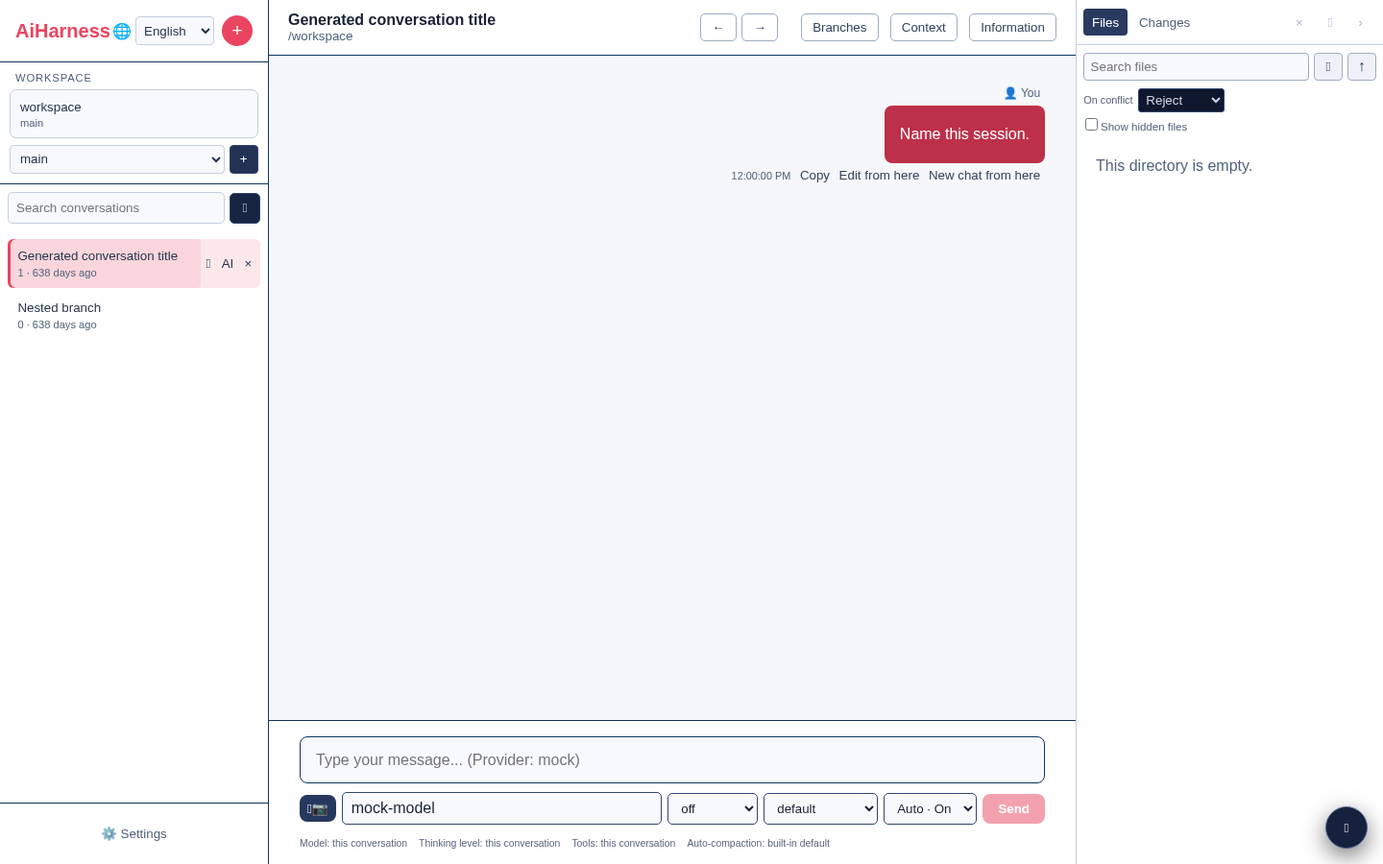
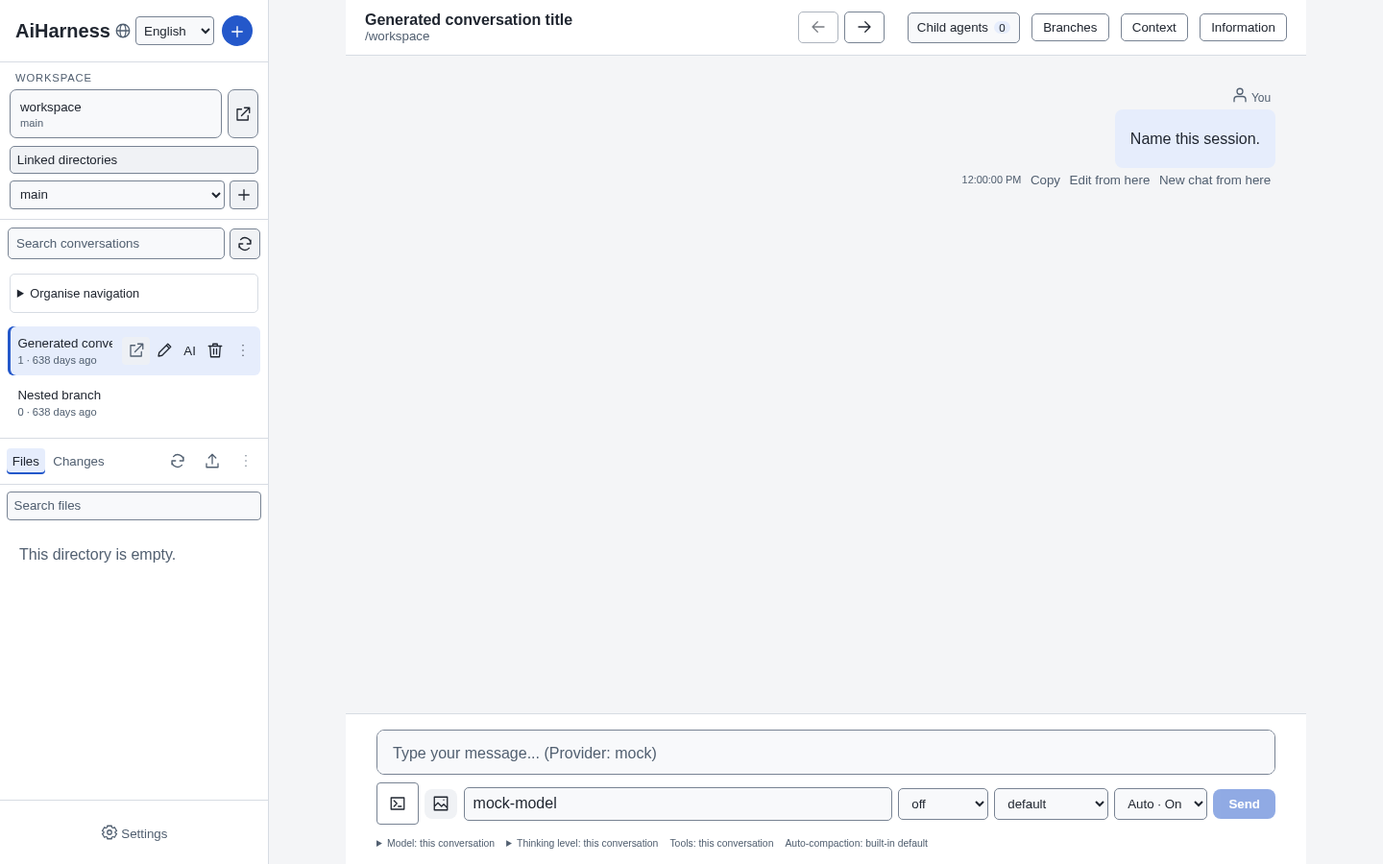
docs(users): refresh Web guides and interface screenshots

diff --git a/docs/users/en/user-guide.md b/docs/users/en/user-guide.md
@@ -3,7 +3,7 @@
 AiHarness provides two interfaces on top of the same providers and session storage:
 
 - **CLI**: interactive agent in a terminal, with sessions, branches, tools, skills, and extensions;
-- **Web**: three-panel React workspace connected to a detached server agent with sequenced SSE recovery.
+- **Web**: responsive React workspace with navigation and explorer on the left, chat in the center and a file reader on the right, connected to a detached server agent with sequenced SSE recovery.
 
 This guide covers installation from sources, provider configuration, and daily use of both interfaces.
 
@@ -661,6 +661,8 @@ npm run dev:web
 
 In both development modes, the API listens internally on `127.0.0.1:3099` and Vite proxies `/api` and WebSockets from port 3080.
 
+Screenshots in this guide show the current interface with synthetic data, mostly in English and the light theme. Labels follow the language selected in the application; see the [screenshot inventory](../../screenshots/README.md) for provenance and refresh instructions.
+
 To explore the interface without a key:
 
 ![Workspace trust dialog, light theme](../../screenshots/01-workspace/trust-dialog-light.png)
@@ -668,7 +670,7 @@ To explore the interface without a key:
 1. choose or confirm the workspace in the sidebar;
 2. explicitly approve the project after verifying its path;
 3. click **+** to open a local draft;
-4. keep **Mock** provider in **Settings**;
+4. keep **Mock** provider in **Settings → Models → AI Provider**;
 5. send `Hello`: the session is only created on the server at this point.
 
 ### Default Workspace and Recovery
@@ -679,7 +681,21 @@ If the saved choice and default are unavailable, the sidebar explains the failur
 
 ### Configuring Web UI
 
-The **Settings** page allows:
+Open **Settings** at the bottom of the sidebar or with `Ctrl+,` (`⌘,` on macOS). Settings opens as a dialog over chat with seven categories: **General**, **Models**, **Skills**, **Tools**, **Plugins**, **Child agents** and **MCP**. On smaller screens, use the category dropdown; **Back…** buttons return to the section or resource list.
+
+| Path | Purpose |
+|---|---|
+| **General → Appearance** | Theme, content width, font and send key |
+| **General → Behavior** | Global/project defaults and keyboard shortcuts |
+| **General → Notifications / Access / About** | Alerts, Web session and versions |
+| **Models → AI Provider** | Active provider and built-in provider keys |
+| **Models → Provider connections and custom providers** | Status, sign-in, testing and compatible providers |
+| **Models → Model** | Model selection and catalogue |
+| **Models → Custom models** | Custom model declarations |
+
+Select a resource in its list to inspect its detail: cards are no longer all shown simultaneously. **Close** or `Escape` returns to chat; unsaved changes may require confirmation. Positions are remembered per folder, not unsubmitted fields; see [Settings navigation](./settings-navigation.md).
+
+Settings allows:
 
 - selecting the active provider, registering a key with the server and tracking connection/usage;
 - launching a configured OAuth Device Flow, then reconnecting or disconnecting the provider without exposing its token;
@@ -698,7 +714,7 @@ The **Settings** page allows:
 - applying a Bearer token to the current tab or logging out of the Web session;
 - viewing Web/agent versions, explicitly checking the latest release and opening its notes without auto-installation.
 
-Expand **Manage model catalogue** in the **Model** section to search for a model or provider, view its reasoning/image/tool capabilities, then activate an entry or use **Enable displayed**/**Disable displayed** for one provider or all displayed groups. Only changed visible rows are submitted in one batch; hidden rows and inherited/unrelated settings remain intact. Filter a group exceeding 500 changes. Ordered outcomes report changed, unchanged and failed entries. After a failure or navigating away during a save, refresh canonical state rather than assuming rollback; see [resource group controls](./resource-batches.md). **Refresh catalogue** re-triggers server-side discovery: local OpenAI/Ollama-compatible servers are queried via their models endpoint, then merged with a minimal published catalog and configured model. Discovery failure keeps the last valid result and the published catalog remains available.
+In **Models → Model**, expand **Manage model catalogue**, filter and select a row to inspect its reasoning/image/tool capabilities. You can then activate that entry or use **Enable displayed**/**Disable displayed** for one provider or all displayed groups. Only changed visible rows are submitted in one batch; hidden rows and inherited/unrelated settings remain intact. Filter a group exceeding 500 changes. Ordered outcomes report changed, unchanged and failed entries. After a failure or navigating away during a save, refresh canonical state rather than assuming rollback; see [resource group controls](./resource-batches.md). **Refresh catalogue** re-triggers server-side discovery: local OpenAI/Ollama-compatible servers are queried via their models endpoint, then merged with a minimal published catalog and configured model. Discovery failure keeps the last valid result and the published catalog remains available.
 
 ![Published and discovered model catalogue, light theme](../../screenshots/05-settings/model-catalog-light.png)
 
@@ -708,7 +724,7 @@ For local, Azure, Vertex or Bedrock providers, prefer server environment variabl
 
 #### Authentication, Custom Providers and Models
 
-**Provider lifecycle** shows the effective method (environment, key, OAuth or none), cumulative usage and available actions. Depending on the provider, sign-in uses a device flow or a native browser/PKCE flow. Human instructions appear in Settings; tokens, private device codes and verifiers stay server-side. Native custom integrations include Anthropic/OpenRouter browser login, Kimi/Meta/xAI device login, and separate guarded Copilot/Codex flows; availability depends on the configured dialect, not its display name. For generic operator device integration, configure before startup:
+**Models → Provider connections and custom providers** lets you select a built-in or custom provider, then shows its effective method (environment, key, OAuth or none), cumulative usage and available actions. Depending on the provider, sign-in uses a device flow or a native browser/PKCE flow. Human instructions appear in Settings; tokens, private device codes and verifiers stay server-side. Native custom integrations include Anthropic/OpenRouter browser login, Kimi/Meta/xAI device login, and separate guarded Copilot/Codex flows; availability depends on the configured dialect, not its display name. For generic operator device integration, configure before startup:
 
 ```bash
 export AI_HARNESS_OAUTH_OPENAI_DEVICE_URL='https://.../device'
@@ -719,11 +735,11 @@ export AI_HARNESS_OAUTH_OPENAI_SCOPE='...' # optional
 
 Replace OPENAI with the provider name in uppercase. OAuth endpoints must be HTTPS, without embedded credentials. Cancellation invalidates the local Device Flow; reconnecting replaces the previous token.
 
-**Manage compatible providers** accepts a stable identifier, name, HTTP(S) URL without userinfo/query/fragment, a supported dialect (including OpenAI Chat Completions, OpenAI Responses, Anthropic Messages and Google Generative Language), optional key and JSON headers. You can test connectivity, import announced models, disconnect or delete entries. This browser form never supplies or starts a credential command; only an operator-owned trusted `providerApiKeyCommands` setting can do so on the host.
+In that same section, **Create or edit a compatible provider** accepts a stable identifier, name, HTTP(S) URL without userinfo/query/fragment, a supported dialect (including OpenAI Chat Completions, OpenAI Responses, Anthropic Messages and Google Generative Language), optional key and JSON headers. You can test connectivity, import announced models, disconnect or delete entries. This browser form never supplies or starts a credential command; only an operator-owned trusted `providerApiKeyCommands` setting can do so on the host.
 
-**Custom models** lets you add any provider an ID and name, reasoning/image/tool capabilities, context window, max output, per-million-token input/output/cache prices and JSON compatibility settings. Custom metadata takes precedence over the published catalog. A connectivity test explicitly validates the entry; a model without tool calls disables tools for the run.
+**Models → Custom models → Create a custom model** lets you add any provider an ID and name, reasoning/image/tool capabilities, context window, max output, per-million-token input/output/cache prices and JSON compatibility settings. Custom metadata takes precedence over the published catalog. A connectivity test explicitly validates the entry; a model without tool calls disables tools for the run.
 
-**Defaults and scope** sets provider, model, thinking level and tool preset at global or project level. Only edited fields are saved, so changing reasoning does not overwrite a separately saved model. Open the Model or Thinking scope label below the composer to save the current choice as a global new-session default, including during a run. Project/environment overrides produce a warning; current history and active requests are unchanged. New drafts inherit the effective defaults. Invalid thinking levels and unreadable settings are refused without replacement. An empty value means "inherit"; effective value and provenance remain visible. A value imposed by environment is locked. **Tools** follows same scopes, lists actually registered tools and offers `configured`, `chat-only`, `read-only`, `default` and `full` presets. PowerShell is unavailable outside Windows and disabled by default even on Windows.
+In **General → Behavior**, **Provider and model defaults** sets provider, model, thinking level and tool preset at global or project level. Only edited fields are saved, so changing reasoning does not overwrite a separately saved model. Open the Model or Thinking scope label below the composer to save the current choice as a global new-session default, including during a run. Project/environment overrides produce a warning; current history and active requests are unchanged. New drafts inherit the effective defaults. Invalid thinking levels and unreadable settings are refused without replacement. An empty value means "inherit"; effective value and provenance remain visible. A value imposed by environment is locked. **Tools** follows same scopes, lists actually registered tools and offers `configured`, `chat-only`, `read-only`, `default` and `full` presets. PowerShell is unavailable outside Windows and disabled by default even on Windows.
 
 Metrics aggregate all provider turns including intermediate tool turns, compactions, titles and summaries. They distinguish input, output, cache read/write and cost calculated with custom or published prices. The server restores them from `usage-metrics.json` at restart.
 
@@ -756,7 +772,7 @@ The Web Code mode card shows the script, nested progress/status, duration, outpu
 
 ### MCP Configuration
 
-Open **Settings → MCP servers**, or use the built-in Web `/mcp`, even without a selected project. **Details** opens one server’s redacted detail, Test report and optional sign-in panel. Settings restores its last focused section; explicit server choices are remembered separately for each canonical workspace and for the no-project view. This optional, bounded browser preference stores only workspace/scope/name metadata—not configuration, trust, reports or OAuth data. A saved entry that is missing, locked or ambiguous never falls back to a same-named entry in another scope: select a current row explicitly. Row actions select their server; an unambiguous successful addition or rename selects its canonical result. Workspace/trust replacement retires old panels and replies, and pending Test/sign-in requests exclude competing mutations.
+Open **Settings → MCP**, **MCP servers** section, or use the built-in Web `/mcp`, even without a selected project. **Details** opens one server’s redacted detail, Test report and optional sign-in panel. Settings restores its last focused section; explicit server choices are remembered separately for each canonical workspace and for the no-project view. This optional, bounded browser preference stores only workspace/scope/name metadata—not configuration, trust, reports or OAuth data. A saved entry that is missing, locked or ambiguous never falls back to a same-named entry in another scope: select a current row explicitly. Row actions select their server; an unambiguous successful addition or rename selects its canonical result. Workspace/trust replacement retires old panels and replies, and pending Test/sign-in requests exclude competing mutations.
 
 **MCP servers** in Settings is a redacted configuration inventory with an explicit one-shot connection Test and local whole-entry edit, enable, disable, tool-exposure, remove and restore controls. The inventory itself never starts a connection; a separate per-session host connects eligible enabled servers immediately before an agent prompt. It reads the global `<data-directory>/mcp.json` (by default `~/.ai-harness/mcp.json`) and, only after an exact or inherited saved allow, `<workspace>/.ai-harness/mcp.json`. A fresh empty workspace's implicit safe status alone is not enough to open, test or ordinarily change a project file. Before approval, the panel reports only that the file exists; it does not read server names or values. An explicit refusal or unavailable trust store also keeps it locked.
 
@@ -878,7 +894,7 @@ Interactions are presented in server order, one head at a time, with a waiting c
 
 ### Profiles and Child Agents
 
-The **Sub-agents** section enables or disables the integrated engine and sets the number of simultaneous children (1 to 16, four by default). Choose **Project workspace** to create an override for the current workspace or **Global defaults** to change the shared base. Built-in profiles are:
+The **Child agents** category, **Sub-agents** section, enables or disables the integrated engine and sets the number of simultaneous children (1 to 16, four by default). Choose **Project workspace** to create an override for the current workspace or **Global defaults** to change the shared base. Built-in profiles are:
 
 - **Explore**: read-only inspection, inherited context, background by default;
 - **General purpose**: a general task using the parent tool policy;
@@ -933,6 +949,8 @@ export AI_HARNESS_DATA_DIR="$HOME/.ai-harness"
 
 ### Conversations and Detached Agent
 
+In the sidebar, **Organise navigation** lets you select conversation families to pin, archive or unarchive them, and rename or reorder project display entries. Archiving never deletes a session or stops an agent; the selected conversation and families with active work or attention remain visible. **Include archived** reveals the other hidden families.
+
 - **+** creates a workspace-bound local draft; it is persisted only on first send;
 - draft text, images and settings survive internal navigation and a full reload within the bounded per-tab cache;
 - sidebar search queries titles and content, displays a snippet and opens the target message, loading an older history window when necessary;
@@ -945,6 +963,9 @@ export AI_HARNESS_DATA_DIR="$HOME/.ai-harness"
 - the agent continues on the server if the tab navigates or disconnects; the UI reloads the snapshot and resumes missing events;
 - the stop button identifies the active phase: model wait/response, tool, shell command or compaction. Cancellation propagates to the active provider or tool;
 - a failure before the first delta can retry automatically without duplicating an assistant response. Attempt number, limit and latest error remain visible and survive snapshot reconnection.
+
+![Session lifecycle and branches, light theme](../../screenshots/03-sessions/session-lifecycle-light.png)
+![Session lifecycle and branches, dark theme](../../screenshots/03-sessions/session-lifecycle-dark.png)
 
 The latest view is cached in per-tab `sessionStorage` for display before network reconciliation. Schema v2 migrates v1 snapshots, expires after 24 hours, and is bounded to 2 MiB, three remote sessions and three local drafts per workspace. It restores the active conversation or draft, text, settings, small attachments and provider/model selection; binary previews are evicted before text when the budget is reached. No API key is written there. The server remains authoritative and replaces a remote window when its revision changes. A separate scroll registry also expires after 24 hours, keeps at most 24 conversations per workspace and writes on a delay. Browser preferences use schema v4 with v1/v2/v3 migration; PTY tabs remain isolated by workspace, and every storage path has a safe fallback.
 
@@ -1011,7 +1032,7 @@ The composer's **Thinking level** can be changed while the agent runs. The saved
 
 ### Images and Message Rendering
 
-Add up to eight images via camera button, paste or drag-and-drop. Browser attempts to reduce oversized images; total size is limited. A warning appears if chosen provider does not announce multimodal support. Image blocks persist with message and send natively to OpenAI/Azure, Anthropic and Gemini/Vertex.
+Add up to eight images via the image-icon button, paste or drag-and-drop. Browser attempts to reduce oversized images; total size is limited. A warning appears if chosen provider does not announce multimodal support. Image blocks persist with message and send natively to OpenAI/Azure, Anthropic and Gemini/Vertex.
 
 Responses support titles with anchors, lists, tables, quotes, links, colored and copyable code, KaTeX math, reasoning and tool details. Their footer shows timestamp, model, available tokens/cost and a copy button with visual confirmation; files produced by tools are buttons that open viewer directly. Mermaid blocks load on demand and have sanitized SVG preview, source, accessible zoom and download; unsupported syntax produces local error without injecting active content. Raw HTML remains non-executable, KaTeX outputs are sanitized with trust mode disabled and external links use isolated opening.
 
@@ -1025,11 +1046,13 @@ When **selection actions** option is active, selecting text in conversation open
 
 ### Explorer, Git and Files
 
-Right panel offers:
+On desktop (960 px and wider), the explorer is integrated into the left sidebar below conversations. Its **Files** and **Changes** tabs browse the workspace and Git. Opening a file shows a separate reader to the right of chat; closing the reader does not remove the explorer.
+
+These surfaces offer:
 
 - lazily loaded tree, optional hidden files, index search and M/A/D/U Git badges;
 - Git changes grouped by folder, with add/delete totals and direct diff opening;
-- resizable or fullscreen Source/Preview/Diff viewer with metadata, line numbers, coloring, copy and download;
+- a resizable or fullscreen **Source / Preview / Diff** reader with up to eight open file tabs, full path, metadata, line numbers, coloring, copy and download;
 - sanitized Markdown preview with frontmatter and anchors, plus images, audio and video files;
 - followed, indexed, untracked, deleted or binary diffs, refreshed when open file changes;
 - cancellable multiple upload with per-file network progress, detailed error and explicit collision strategy: reject, rename or overwrite;
@@ -1041,7 +1064,7 @@ A Markdown `file:src/app.ts#L20` link or recognized path in tool output opens vi
 
 ### Workspace Terminal
 
-The Cmd button or shortcut Ctrl+Shift+T loads then opens a real PTY terminal in approved cwd; xterm does not download before first request. Each tab has its own shell and displays status, dimensions and exit code. **+** button creates another terminal; closing active tab asks confirmation then kills process.
+The terminal-icon button near the composer (**Open workspace terminal**) or shortcut Ctrl+Shift+T loads then opens a real PTY terminal in approved cwd; xterm does not download before first request. Each tab has its own shell and displays status, dimensions and exit code. **+** button creates another terminal; closing active tab asks confirmation then kills process.
 
 Size follows panel. Ctrl+Shift+C copies xterm selection and Ctrl+Shift+V pastes clipboard when browser allows it. Tabs and active terminal are remembered in `sessionStorage` by workspace for current browser tab. After reload or network cut, client resumes ANSI journal at last offset; explicitly signals if oldest part evicted from bounded journal.
 
@@ -1070,9 +1093,6 @@ node packages/server/dist/web-cli.js --no-open
 ```
 
 The `packages/web/dist/` bundle is served automatically with API. No second HTTP server needed. For public production, still place `ai-harness-web` behind an HTTPS reverse proxy.
-
-![Session lifecycle and branches, light theme](../../screenshots/03-sessions/session-lifecycle-light.png)
-![Session lifecycle and branches, dark theme](../../screenshots/03-sessions/session-lifecycle-dark.png)
 
 ## Sessions and Files
 

diff --git a/docs/screenshots/README.md b/docs/screenshots/README.md
@@ -2,7 +2,9 @@
 
 ## English
 
-This directory contains deterministic product screenshots used by the human-facing documentation. They are copied from the Playwright visual baselines in `e2e/visual.spec.ts-snapshots/`; the scenarios use bounded mock data and contain no credentials.
+This directory contains deterministic product screenshots used by the human-facing documentation. They are copied from the Playwright visual baselines in `e2e/visual.spec.ts-snapshots/`; the scenarios use bounded mock data and contain no credentials. The 11 documented states were checked against the Web source at commit `6e16a33d` before synchronization. Fixture dates, model names and counts are synthetic, not a live account or catalogue inventory.
+
+They illustrate the [English user guide](../users/en/user-guide.md) and [French user guide](../users/fr/user-guide.md). Most captures use English labels. The current desktop layout has the explorer below conversations in the left sidebar and a separate file reader on the right; Settings is a categorized dialog with resource lists/details. These are product screenshots, not captures of the separate static demo.
 
 ### Formats and viewports
 
@@ -36,20 +38,22 @@ Four reviewed selector crops stay beside their owning `e2e/workspace-defaults.sp
 
 ### Refresh procedure
 
-1. Regenerate the visual baselines in Docker:
+1. Check the baselines against the current interface in Docker:
    ```bash
-   make test-e2e E2E_ARGS='e2e/visual.spec.ts --update-snapshots=all'
+   make test-e2e E2E_ARGS='e2e/visual.spec.ts --retries=0'
    ```
-2. Review the changed baselines and confirm that mock content contains no secrets.
-3. Run `make sync-doc-screenshots` to copy the documented states.
-4. Update this inventory and all guide references when adding or renaming a capture.
+2. If an intentional interface change requires new baselines, regenerate the affected scenarios with `--update-snapshots=all`. Review the images for layout, readable content and absence of secrets, then rerun those scenarios **without** snapshot updates. Updating a baseline alone is not validation.
+3. Run `make sync-doc-screenshots` to copy the 11 documented states. This command copies existing PNGs; it does not run the application or check freshness.
+4. Check the corresponding passages in both user guides. Update this inventory and all references when adding or renaming a capture.
 5. Run `make lint-docs` and `git diff --check`.
 
 ---
 
 ## Français
 
-Ce dossier contient les captures déterministes du produit utilisées par la documentation humaine. Elles sont copiées depuis les références visuelles Playwright de `e2e/visual.spec.ts-snapshots/` ; les scénarios utilisent des données mockées et bornées, sans credential.
+Ce dossier contient les captures déterministes du produit utilisées par la documentation humaine. Elles sont copiées depuis les références visuelles Playwright de `e2e/visual.spec.ts-snapshots/` ; les scénarios utilisent des données mockées et bornées, sans credential. Les 11 états documentés ont été vérifiés contre le code Web du commit `6e16a33d` avant synchronisation. Dates, noms de modèles et compteurs sont synthétiques, pas un compte réel ni un inventaire de catalogue en production.
+
+Elles illustrent le [guide français](../users/fr/user-guide.md) et le [guide anglais](../users/en/user-guide.md). La plupart utilisent des libellés anglais. Sur ordinateur, l’interface actuelle place l’explorateur sous les conversations dans la barre latérale gauche et le lecteur de fichiers séparément à droite ; les réglages sont une boîte de dialogue par catégories avec listes et détails. Il s’agit du produit, pas de la démonstration statique distincte.
 
 ### Formats et viewports
 
@@ -83,11 +87,11 @@ Quatre recadrages examinés du sélecteur restent à côté de leur scénario `e
 
 ### Procédure de mise à jour
 
-1. Régénérez les références visuelles dans Docker :
+1. Vérifiez les références contre l’interface actuelle dans Docker :
    ```bash
-   make test-e2e E2E_ARGS='e2e/visual.spec.ts --update-snapshots=all'
+   make test-e2e E2E_ARGS='e2e/visual.spec.ts --retries=0'
    ```
-2. Examinez les références modifiées et vérifiez que les données mockées ne contiennent aucun secret.
-3. Lancez `make sync-doc-screenshots` pour copier les états documentés.
-4. Mettez à jour cet inventaire et les références des guides lors de tout ajout ou renommage.
+2. Si une évolution volontaire de l’interface impose de nouvelles références, régénérez les scénarios concernés avec `--update-snapshots=all`. Examinez disposition, lisibilité et absence de secrets, puis rejouez ces scénarios **sans** mise à jour des références. La régénération seule n’est pas une validation.
+3. Lancez `make sync-doc-screenshots` pour copier les 11 états documentés. Cette commande copie les PNG existants ; elle ne lance pas l’application et ne vérifie pas leur fraîcheur.
+4. Vérifiez les passages correspondants des deux guides utilisateur. Mettez à jour cet inventaire et toutes les références lors de tout ajout ou renommage.
 5. Lancez `make lint-docs` et `git diff --check`.

diff --git a/docs/users/README.md b/docs/users/README.md
@@ -6,62 +6,49 @@ Ce dossier contient la documentation destinée aux utilisateurs finaux souhaitan
 
 ### [Français](fr/)
 
-Guide complet d'utilisation en français :
+Consultez l’[index français complet](fr/README.md) pour tous les guides spécialisés (opérations, sécurité, raccourcis, chargement des panneaux, etc.).
 
 | Document | Description |
 |---|---|
 | [user-guide.md](fr/user-guide.md) | Guide utilisateur complet : installation, configuration CLI/Web, commandes, sessions, sécurité |
 | [web-replies.md](fr/web-replies.md) | Limites de sortie, échecs partiels, demandes concurrentes et reconnexion |
 | [containerization.md](fr/containerization.md) | Exécution conteneurisée Docker pour le CLI et le Web |
+| [settings-navigation.md](fr/settings-navigation.md) | Navigation des réglages par catégorie et mémoire par workspace |
 | [linked-directories.md](fr/linked-directories.md) | Consentement exact, confiance indépendante et navigation limitée |
 | [static-demo.md](fr/static-demo.md) | Démonstration statique synthétique, hors ligne et sans autorité hôte |
 
 ### [English](en/)
+
+See the [complete English index](en/README.md) for all specialized guides (operations, security, keybindings, optional panel loading, etc.).
 
 | Document | Description |
 |---|---|
 | [user-guide.md](en/user-guide.md) | Full user guide: installation, CLI/Web configuration, commands, sessions and security |
 | [web-replies.md](en/web-replies.md) | Output limits, partial failures, concurrent requests and reconnect |
 | [containerization.md](en/containerization.md) | Docker-based CLI and Web execution |
+| [settings-navigation.md](en/settings-navigation.md) | Settings categories and per-workspace navigation memory |
 | [linked-directories.md](en/linked-directories.md) | Exact consent, independent trust and scoped browsing |
 | [static-demo.md](en/static-demo.md) | Synthetic offline static demonstration without host authority |
 
 ## 🖼 Captures d'écran
 
-Des captures d'écran annotées sont disponibles dans le dossier [`docs/screenshots/`](../screenshots/) :
+Les guides FR/EN intègrent les 11 captures de [`docs/screenshots/`](../screenshots/README.md), synchronisées depuis les références Playwright de l’interface actuelle. Elles utilisent des données synthétiques, principalement en anglais, sans annotations ajoutées. L’inventaire indique le scénario source et la procédure de vérification ; la démonstration statique reste une surface distincte, pas une référence visuelle du produit.
 
 | Thème | Contenu |
 |---|---|
-| `01-workspace/` | Workspace, confiance des projets, worktrees Git |
+| `01-workspace/` | Dialogue de confiance du workspace |
 | `02-chat/` | Conversation, composer, commandes intégrées |
-| `03-sessions/` | Cycle de vie des sessions : branches, recherche, arbre |
-| `04-files-git/` | Explorateur de fichiers, diffs Git, upload |
-| `05-settings/` | Paramètres et administration (providers, modèles, plugins) |
-| `06-extensions/` | Extensions Web : widgets et interactions |
-| `07-mobile/` | Responsive design et PWA |
-| `08-accessibility/` | Accessibilité et navigation clavier |
+| `03-sessions/` | Titre généré et branche imbriquée, thèmes clair/sombre |
+| `04-files-git/` | Explorateur dans la barre latérale et lecteur Markdown à droite |
+| `05-settings/` | Réglages par catégories : catalogue de modèles et profils de sous-agents |
+| `06-extensions/` | Formulaire déclaratif d’approbation d’une extension |
+| `07-mobile/` | Explorateur et lecteur en tiroir sur tablette |
+| `08-accessibility/` | Palette de commandes avec focus clavier |
 
 ## 🔗 Liens utiles
 
 - **[docs/contributors/fr/architecture-overview.md](../contributors/fr/architecture-overview.md)** — Vue d'ensemble technique (pour les curieux)
 - **[README.md](../../README.md)** — Vue d'ensemble du projet et démarrage rapide
-
-## 📐 Structure des docs
-
-```
-docs/users/
-├── README.md              # Navigation générale
-├── fr/                    # Documentation française
-│   ├── README.md
-│   ├── user-guide.md
-│   ├── containerization.md
-│   └── static-demo.md
-└── en/                    # English documentation
-    ├── README.md
-    ├── user-guide.md
-    ├── containerization.md
-    └── static-demo.md
-```
 
 ## ✏ Contribuer
 

diff --git a/docs/users/fr/README.md b/docs/users/fr/README.md
@@ -10,11 +10,12 @@
 | [Conteneurisation](./containerization.md) | Exécution du CLI et du lanceur Web avec Docker |
 | [Politique de commande des packages](./npm-command.md) | Arguments npm littéraux, confiance de la source et refus CLI/Web |
 | [Authentification/export autonomes](./standalone-operations.md) | Métadonnées passives, connexions natives/device/navigateur explicites et fichiers de session sélectionnés/approuvés |
-| [Navigation des Paramètres](./settings-navigation.md) | Mémoire par dossier des sections/groupes/éléments et portées, confiance fraîche, focus sûr et confidentialité |
+| [Navigation des Paramètres](./settings-navigation.md) | Catégories, listes et détails adaptatifs, mémoire par dossier et portées, focus et confidentialité |
 | [Chargement des textes des réglages](./settings-loading.md) | Chargement traduit, fermeture, réessai explicite et texte non envoyé |
 | [Chargement du panneau de fichiers](./workspace-loading.md) | Ressources optionnelles, intention d’ouverture, fermeture locale et réessai explicite |
 | [Répertoires liés](./linked-directories.md) | Consentement exact, confiance source indépendante, navigation limitée et révocation |
 | [Contrôles par groupe](./resource-batches.md) | Lots filtrés de modèles/skills, Markdown valide et réconciliation des échecs |
 | [Disposition avec le clavier mobile](./mobile-keyboard.md) | Détection prudente, styles propres au chat, réessai et limites matérielles |
+| [Démonstration statique](./static-demo.md) | Démo synthétique hors ligne, distincte de l’interface connectée |
 
 Les mêmes documents sont disponibles en [anglais](../en/). Consultez l’[index de la documentation utilisateur](../README.md) pour les captures et les liens du projet.

diff --git a/docs/users/en/README.md b/docs/users/en/README.md
@@ -10,11 +10,12 @@
 | [Containerization](./containerization.md) | Running the CLI and Web launcher with Docker |
 | [Package command policy](./npm-command.md) | Literal npm argv, declaring-source trust and CLI/Web failure rules |
 | [Standalone authentication/export](./standalone-operations.md) | Passive credential metadata, explicit native/device/browser login and selected trusted session files |
-| [Settings navigation](./settings-navigation.md) | Per-folder section/group/row and scope memory, fresh trust reload, safe focus and privacy |
+| [Settings navigation](./settings-navigation.md) | Categories, responsive lists/details, per-folder navigation and scope memory, focus and privacy |
 | [Settings text loading](./settings-loading.md) | Translated loading, Close, explicit reload/retry and unsent-text warning |
 | [File-pane loading](./workspace-loading.md) | Optional explorer assets, retained file intent, local Close and honest reload/retry |
 | [Linked directories](./linked-directories.md) | Exact consent, independent source trust, bounded read-only browsing and revocation |
 | [Resource group controls](./resource-batches.md) | Filtered model/skill batches, valid Markdown edits and failure reconciliation |
 | [Mobile keyboard layout](./mobile-keyboard.md) | Conservative viewport detection, chat-only styles, retry and device limits |
+| [Static demonstration](./static-demo.md) | Synthetic offline demo, separate from the connected interface |
 
 The same documents are available in [French](../fr/). See the [user documentation index](../README.md) for screenshot themes and project links.

diff --git a/docs/users/fr/settings-navigation.md b/docs/users/fr/settings-navigation.md
@@ -2,6 +2,14 @@
 
 AiHarness mémorise la navigation des Paramètres séparément pour chaque dossier de projet validé par le serveur, avec un contexte distinct lorsqu’aucun projet n’est sélectionné. Cette mémoire décrit la présentation du navigateur, pas la configuration du projet.
 
+## Se repérer dans l’interface
+
+Les **Réglages** s’ouvrent dans une boîte de dialogue au-dessus du chat, pas dans une longue page de sections empilées. Choisissez **Général**, **Modèles**, **Compétences**, **Outils**, **Plugins**, **Agents enfants** ou **MCP**. Général et Modèles proposent ensuite une liste de sections ; les catalogues présentent une liste de ressources et le détail de l’élément sélectionné.
+
+Sur petit écran, utilisez le sélecteur de catégorie, puis les boutons **Retour…** pour retrouver la liste des sections ou ressources. **Fermer** ou `Escape` revient au chat ; une confirmation protège les modifications non enregistrées concernées. Choisir une fiche ne teste, n’installe et n’active rien à lui seul.
+
+Le [catalogue illustré](../../screenshots/05-settings/model-catalog-light.png) montre **Modèles → Modèle → Gérer le catalogue de modèles** en anglais. Le [guide utilisateur](./user-guide.md#configurer-le-web) donne les autres parcours et les règles de portée.
+
 ## Ce qui est retrouvé
 
 - La dernière section des Paramètres et le dernier groupe ou élément de ressource ayant reçu le focus dans cette section.

diff --git a/docs/users/en/settings-navigation.md b/docs/users/en/settings-navigation.md
@@ -2,6 +2,14 @@
 
 AiHarness remembers Settings navigation separately for each server-validated project folder, with a separate context when no project is selected. This is browser presentation memory, not project configuration.
 
+## Finding your way around
+
+**Settings** opens as a dialog over chat, not a long page of stacked sections. Choose **General**, **Models**, **Skills**, **Tools**, **Plugins**, **Child agents** or **MCP**. General and Models then provide a section list; catalogues show a resource list and the selected entry’s detail.
+
+On smaller screens, use the category selector, then **Back…** buttons to return to section or resource lists. **Close** or `Escape` returns to chat; affected unsaved edits require confirmation. Selecting a detail alone never tests, installs or activates a resource.
+
+The [catalogue screenshot](../../screenshots/05-settings/model-catalog-light.png) shows **Models → Model → Manage model catalogue** in English. The [user guide](./user-guide.md#configuring-web-ui) lists other paths and scope rules.
+
 ## What returns
 
 - The last Settings section and the last focused group or resource row in that section.
